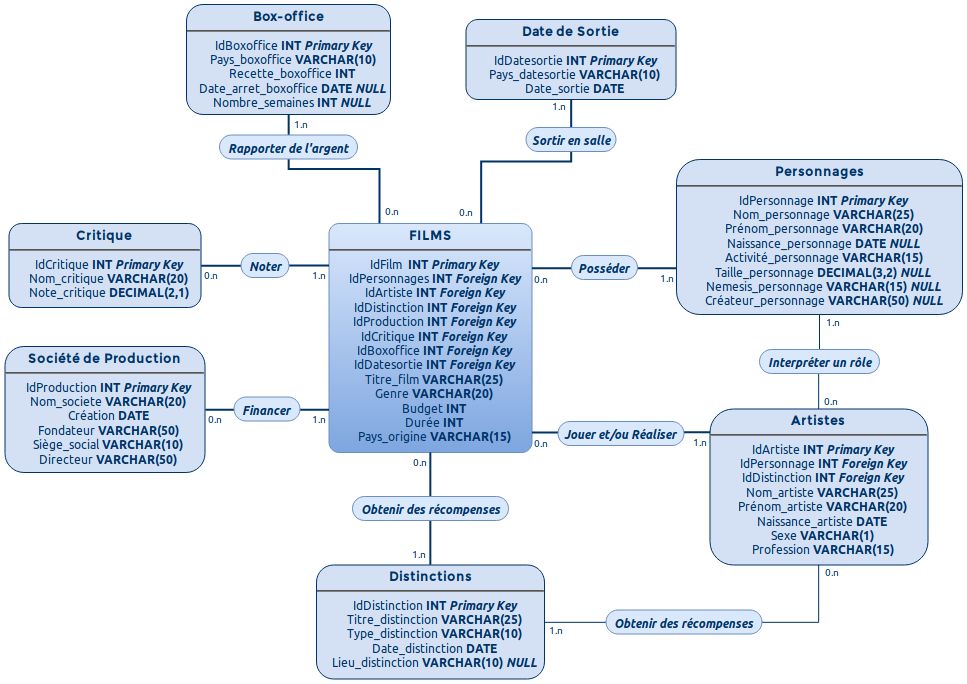
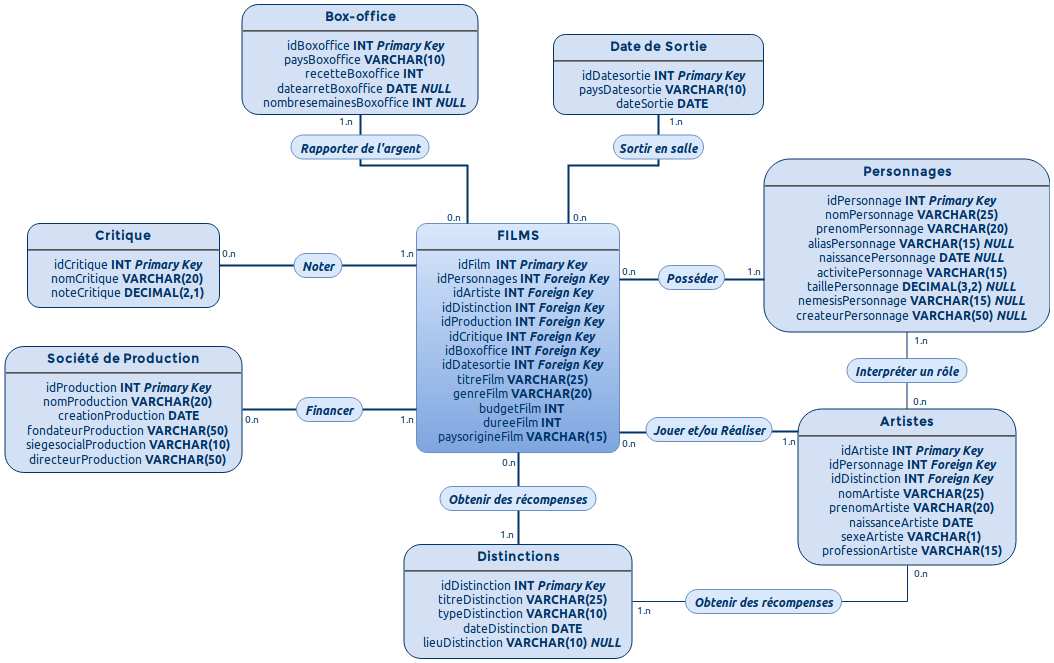
UPDATE 17/02/2019
Modification de la Database pour qu'elle soit plus en coorélation avec son MCD.

diff --git a/README.md b/README.md
@@ -3,7 +3,7 @@ Ce projet *Ydays* consiste en la création d'une base de données en **SQL** sur
 
 ## Auteurs
 **Bordeaux Ynov Campus Informatique**
-*   **Thibault FEUGÈRE** - B1 A - [flamingfurry](https://github.com/flamingfurry)
+*   **Thibault FEUGÈRE** - B1 A - [ThibaultFeugere](https://github.com/ThibaultFeugere)
 *   **Rémi FEYDIT** - B1 A - [RemiFeydit](https://github.com/RemiFeydit)
 *   **Yann LE COZ** - B1 B - [Zocel](https://github.com/Zocel)
 
